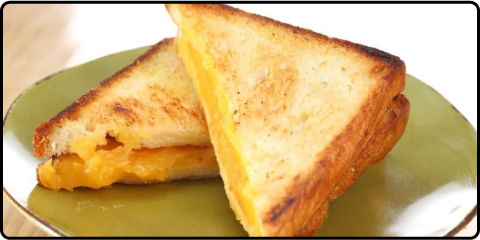
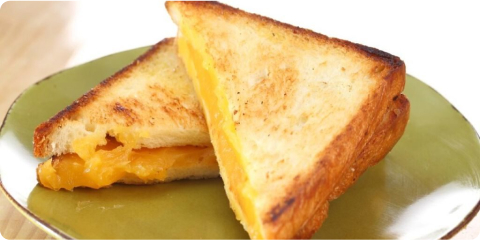
Added new pictures Changed border color

Changed region(s): [[0.0, 0.0, 1.0, 1.0]]

diff --git a/app/static/css/style.css b/app/static/css/style.css
@@ -250,7 +250,7 @@ h3 {
 
 .result-box {
     background-color: var(--color-white);
-    border: 3px solid var(--color-grey);
+    border: 3px solid var(--color-text);
     border-radius: 8px;
     width: 80%;
     display: flex;
@@ -263,7 +263,7 @@ h3 {
 .result-image-container {
     width: 100%;
     height: 230px;
-    border: 3px solid var(--color-grey);
+    border: 3px solid var(--color-text);
     border-radius: 8px;
     overflow: hidden;
 }
